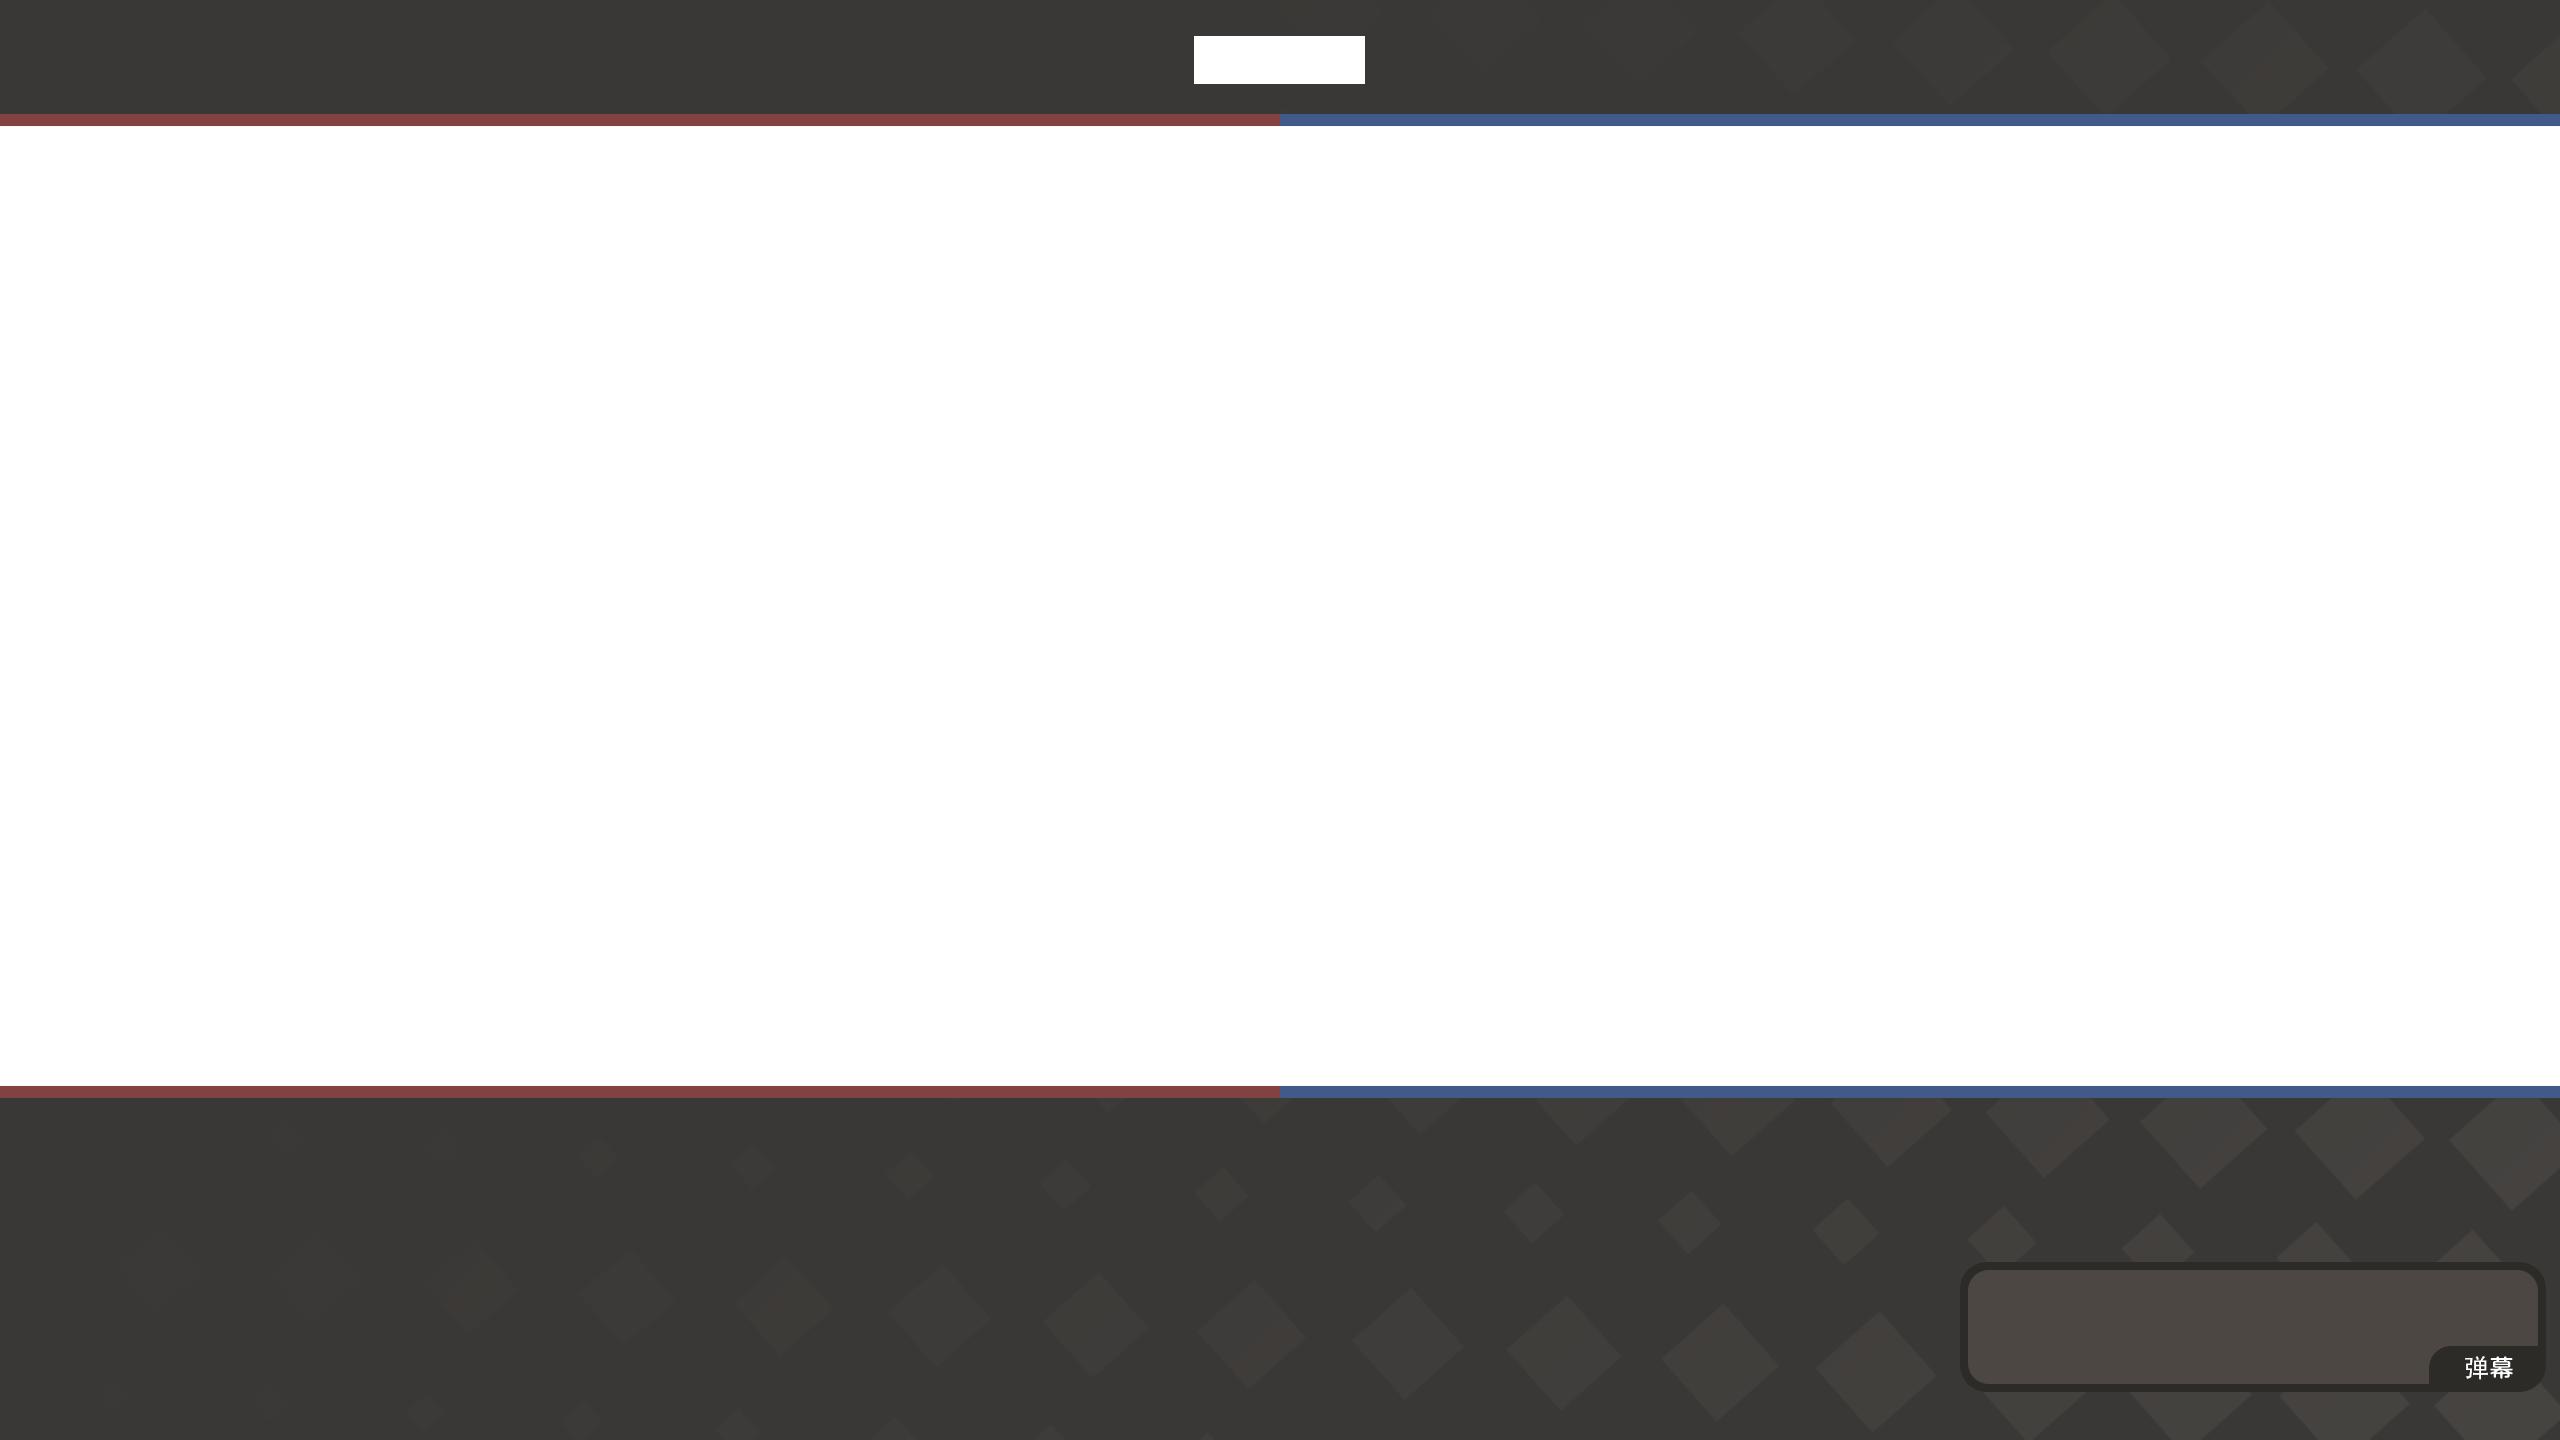
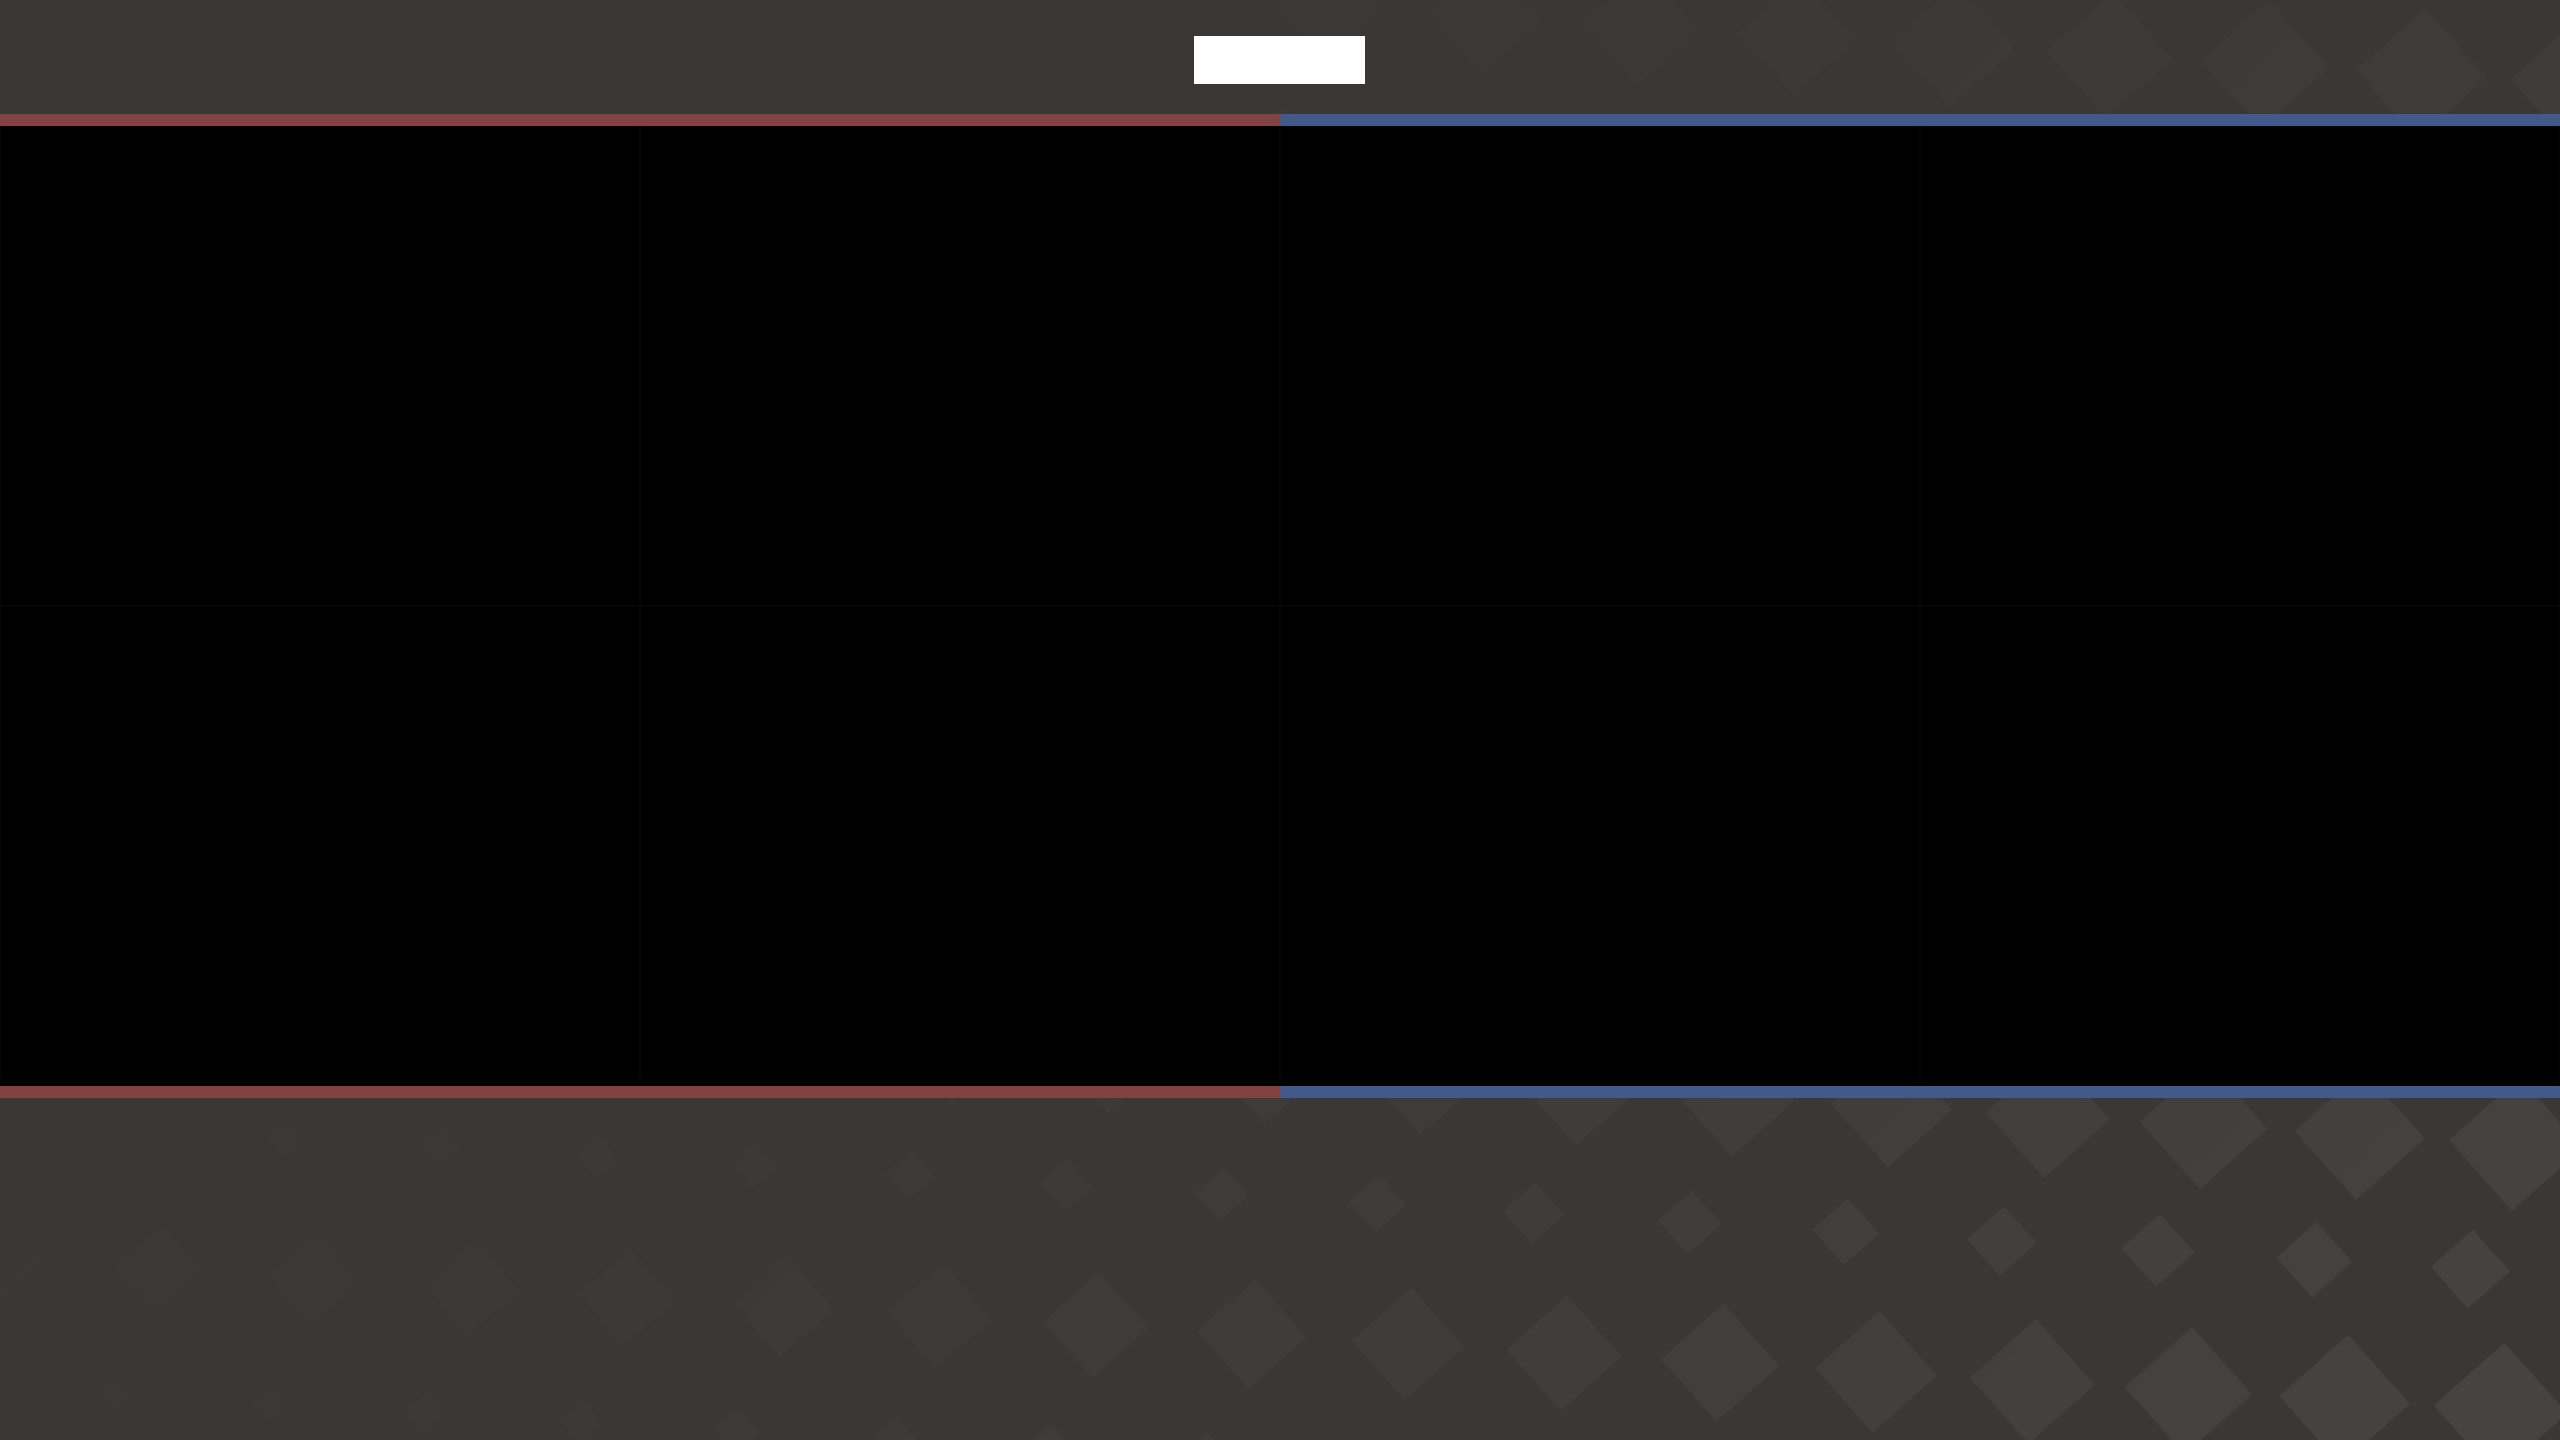
feat: playing场景的logo、魔法框使用CSS实现

diff --git a/MP5_PLAYING/style.css b/MP5_PLAYING/style.css
@@ -36,7 +36,7 @@ body {
 }
 
 #match-round {
-    font-family: "Resource-Han-Rounded-CN-Regular",sans-serif;
+    font-family: "Resource-Han-Rounded-CN-Regular", sans-serif;
     font-size: 23px;
     line-height: 48px;
 }
@@ -114,7 +114,7 @@ body {
 }
 
 #team-a-name {
-    font-family: "YouSheBiaoTiHei",sans-serif;
+    font-family: "YouSheBiaoTiHei", sans-serif;
     font-size: 42px;
     position: absolute;
     left: 111px;
@@ -170,7 +170,7 @@ body {
     text-align: right;
     font-size: 75px;
     color: #ffffff;
-    font-family: 'TorusNotched-Regular',sans-serif;
+    font-family: 'TorusNotched-Regular', sans-serif;
 }
 
 
@@ -225,7 +225,7 @@ body {
 }
 
 #team-b-name {
-    font-family: "YouSheBiaoTiHei",sans-serif;
+    font-family: "YouSheBiaoTiHei", sans-serif;
     font-size: 42px;
     position: absolute;
     right: 111px;
@@ -260,7 +260,7 @@ body {
     text-align: right;
     font-size: 75px;
     color: #ffffff;
-    font-family: 'TorusNotched-Regular',sans-serif;
+    font-family: 'TorusNotched-Regular', sans-serif;
 }
 
 
@@ -274,14 +274,53 @@ body {
     justify-content: center;
     align-content: center;
     flex-wrap: wrap;
+
+    background-color: #4c4742;
+    border-radius: 27px;
+    border: solid 8px #33302f;
+    overflow: hidden;
+}
+
+#magic-name-label-container {
+    position: absolute;
+    left: 0;
+    bottom: 0;
+    width: 115px;
+    height: 45px;
+    background-color: #33302f;
+    border-radius: 0px 19px 0px 19px;
+    display: flex;
+    justify-content: center;
+}
+
+#magic-name-label {
+    font-family: "Resource-Han-Rounded-CN-Regular", sans-serif;
+    font-size: 25px;
+    color: #ffffff;
+    line-height: 45px;
 }
 
 #magic-name {
-    font-family: "YouSheBiaoTiHei",sans-serif;
+    font-family: "YouSheBiaoTiHei", sans-serif;
     font-size: 59px;
     letter-spacing: 0px;
     color: #ffffff;
+    z-index: 1;
 }
+
+#magic-logo-container {
+    position: absolute;
+    left: -22px;
+    top: -89px;
+    transform: rotate(-15deg);
+    width: 307px;
+    height: 255px;
+    background-color: #2c2a27;
+    mask: url(../COMMON/img/logo2.png) no-repeat;
+    mask-size: 100% 100%;
+    opacity: 0.29;
+}
+
 
 #magic-note-container {
     position: relative;
@@ -322,7 +361,7 @@ body {
 }
 
 #magic-label {
-    font-family: "YouSheBiaoTiHei",sans-serif;
+    font-family: "YouSheBiaoTiHei", sans-serif;
     font-size: 133px;
     color: #ffffff;
     /*居中*/
@@ -335,7 +374,7 @@ body {
 }
 
 #magic-note {
-    font-family: "YouSheBiaoTiHei",sans-serif;
+    font-family: "YouSheBiaoTiHei", sans-serif;
     font-size: 75px;
     width: 998px;
     color: #ffffff;
@@ -369,6 +408,54 @@ body {
     opacity: 0; /* 淡出至完全透明 */
 }
 
+#danmaku-container {
+    position: absolute;
+    width: 570px;
+    height: 114px;
+    right: 23px;
+    top: 1270px;
+    display: flex;
+    justify-content: center;
+    align-content: center;
+    flex-wrap: wrap;
+
+    background-color: #4c4742;
+    border-radius: 27px;
+    border: solid 8px #33302f;
+    overflow: hidden;
+}
+
+#danmaku-label-container {
+    position: absolute;
+    right: 0;
+    bottom: 0;
+    width: 115px;
+    height: 45px;
+    background-color: #33302f;
+    border-radius: 19px 0px 19px 0px;
+    display: flex;
+    justify-content: center;
+}
+
+#danmaku-label {
+    font-family: "Resource-Han-Rounded-CN-Regular", sans-serif;
+    font-size: 25px;
+    color: #ffffff;
+    line-height: 45px;
+}
+
+#danmaku-logo-container {
+    position: absolute;
+    right: -22px;
+    top: -89px;
+    transform: rotate(15deg);
+    width: 307px;
+    height: 255px;
+    background-color: #2c2a27;
+    mask: url(../COMMON/img/logo2.png) no-repeat;
+    mask-size: 100% 100%;
+    opacity: 0.29;
+}
 
 .rolling-girl {
     padding-left: 20px;
@@ -413,6 +500,7 @@ body {
 }
 
 #chat-label {
+    font-family: "Resource-Han-Rounded-CN-Regular", sans-serif;
     font-size: 18px;
     color: #ffffff;
     /*垂直居中*/
@@ -427,41 +515,48 @@ body {
     height: 240px;
     overflow-y: auto; /* 当内容溢出时，自动显示垂直滚动条 */
 }
+
 /* 滚动槽 */
 ::-webkit-scrollbar {
     width: 6px;
     height: 6px;
 }
+
 ::-webkit-scrollbar-track {
     border-radius: 3px;
-    background: rgba(0,0,0,0.06);
-    -webkit-box-shadow: inset 0 0 5px rgba(0,0,0,0.08);
+    background: rgba(0, 0, 0, 0.06);
+    -webkit-box-shadow: inset 0 0 5px rgba(0, 0, 0, 0.08);
 }
+
 /* 滚动条滑块 */
 ::-webkit-scrollbar-thumb {
     border-radius: 3px;
-    background: rgba(0,0,0,0.12);
-    -webkit-box-shadow: inset 0 0 10px rgba(0,0,0,0.2);
+    background: rgba(0, 0, 0, 0.12);
+    -webkit-box-shadow: inset 0 0 10px rgba(0, 0, 0, 0.2);
 }
+
 #chat-content p {
-    font-family: Sarasa-UI-SC-Bold,sans-serif;
+    font-family: Sarasa-UI-SC-Bold, sans-serif;
     font-size: 25px;
     margin: 0px;
     color: #ffffff;
 }
-.time{
+
+.time {
     color: #e3e3e3;
 }
-.player-a-name-chat{
+
+.player-a-name-chat {
     color: #ea5455;
 }
-.unknown-chat{
+
+.unknown-chat {
     color: #28cc9e;
 }
-.player-b-name-chat{
+
+.player-b-name-chat {
     color: #a1eafb;
 }
-
 
 
 #chat-bg {
@@ -512,7 +607,7 @@ body {
 .team-a-map-mod {
     width: 58px;
     height: 24px;
-    font-family: TorusNotched-Regular,sans-serif;
+    font-family: TorusNotched-Regular, sans-serif;
     font-size: 29px;
     font-weight: normal;
     font-stretch: normal;
@@ -540,7 +635,7 @@ body {
 .team-b-map-mod {
     width: 58px;
     height: 24px;
-    font-family: TorusNotched-Regular,sans-serif;
+    font-family: TorusNotched-Regular, sans-serif;
     font-size: 29px;
     font-weight: normal;
     font-stretch: normal;
@@ -563,7 +658,7 @@ body {
 #map-title {
     position: absolute;
     width: 842px;
-    font-family: Resource-Han-Rounded-CN-Regular,sans-serif;
+    font-family: Resource-Han-Rounded-CN-Regular, sans-serif;
     font-size: 33px;
     color: #ffffff;
     left: 160px;
@@ -589,14 +684,14 @@ body {
 .map-data-text {
     color: #efca1b;
     font-size: 28px;
-    font-family: Resource-Han-Rounded-CN-Regular,sans-serif;
+    font-family: Resource-Han-Rounded-CN-Regular, sans-serif;
     text-shadow: 1px 1px 5px rgba(0, 0, 0, 1);
 }
 
 .map-data-label {
     color: #ffffff;
     font-size: 28px;
-    font-family: Resource-Han-Rounded-CN-Regular,sans-serif;
+    font-family: Resource-Han-Rounded-CN-Regular, sans-serif;
     text-shadow: 1px 1px 5px rgba(0, 0, 0, 1);
 }
 
@@ -609,7 +704,7 @@ body {
 }
 
 .panel-title {
-    font-family: 'TorusNotched-Regular',sans-serif;
+    font-family: 'TorusNotched-Regular', sans-serif;
     font-size: 30px;
     color: #FFFFFF;
     position: absolute;
@@ -624,7 +719,7 @@ body {
 }
 
 .panel-label {
-    font-family: 'TorusNotched-Regular',sans-serif;
+    font-family: 'TorusNotched-Regular', sans-serif;
     font-size: 25px;
     color: #FFFFFF;
 }
@@ -634,7 +729,7 @@ body {
     border-radius: 8px;
     width: 100px;
     height: 48px;
-    font-family: 'TorusNotched-Regular',sans-serif;
+    font-family: 'TorusNotched-Regular', sans-serif;
     font-size: 20px;
     color: #808080;
     border: none;
@@ -645,7 +740,7 @@ body {
     border-radius: 8px;
     width: 100px;
     height: 48px;
-    font-family: 'TorusNotched-Regular',sans-serif;
+    font-family: 'TorusNotched-Regular', sans-serif;
     font-size: 20px;
     color: #FFFFFF;
     border: none;

diff --git a/MP5_PLAYING/index.html b/MP5_PLAYING/index.html
@@ -11,7 +11,7 @@
 
 <div class="container">
 
-    <img id="playing-bg" src="../COMMON/img/playing_bg.png">
+    <img id="playing-bg" src="../COMMON/img/playing_bg_later.png">
     <div id="match-round-container">
         <span id="match-round"></span>
     </div>
@@ -75,6 +75,10 @@
     </div>
 
     <div id="magic-name-container">
+        <div id="magic-logo-container"></div>
+        <div id="magic-name-label-container">
+            <span id="magic-name-label">魔法</span>
+        </div>
         <span id="magic-name"></span>
     </div>
 
@@ -101,6 +105,13 @@
         </div>
         <div id="map-mod-container"><span id="map-mod"></span></div>
 
+    </div>
+    <div id="danmaku-container">
+        <div id="danmaku-logo-container">
+        </div>
+        <div id="danmaku-label-container">
+            <span id="danmaku-label">弹幕</span>
+        </div>
     </div>
     <div id="magic-full-note-container">
         <span id="magic-full-note" class="rolling-girl"></span>
